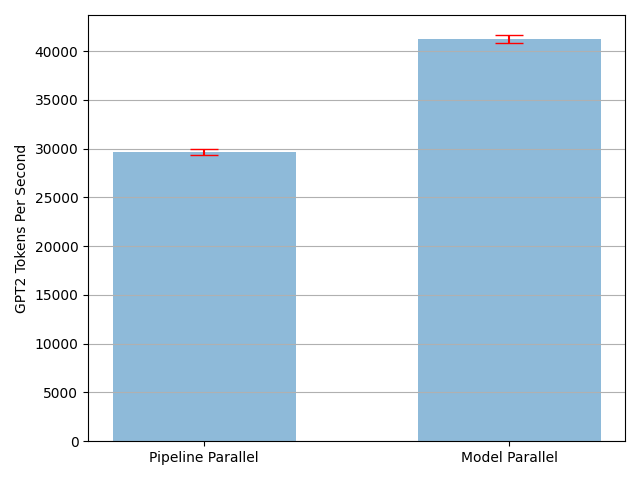
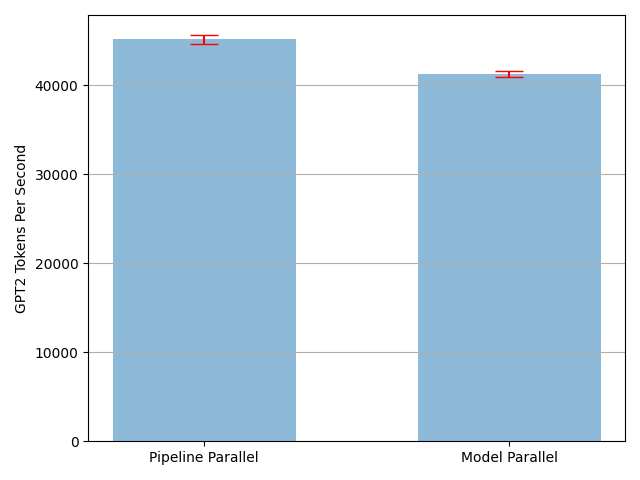
final test results

diff --git a/project/plot.py b/project/plot.py
@@ -41,14 +41,14 @@ if __name__ == '__main__':
     #     ['Data Parallel - Two GPU', 'Single GPU'],
     #     'ddp_vs_rn_token.png')
 
-    pp_mean, pp_std = 21.578580260276794, 0.20210587978363037
+    pp_mean, pp_std = 14.184119701385498, 0.14570045471191406
     mp_mean, mp_std = 15.521642684936523, 0.142592191696167
     plot([pp_mean, mp_mean],
         [pp_std, mp_std],
         ['Pipeline Parallel', 'Model Parallel'],
         'pp_vs_mp.png')
     
-    plot_tokens_sec([29661.6431, 41236.22932683023],
-        [277.812, 378.8235],
+    plot_tokens_sec([45125.64407536964, 41236.22932683023],
+        [463.5343609168158, 378.8235],
         ['Pipeline Parallel', 'Model Parallel'],
         'pp_mp_token_sec.png')
